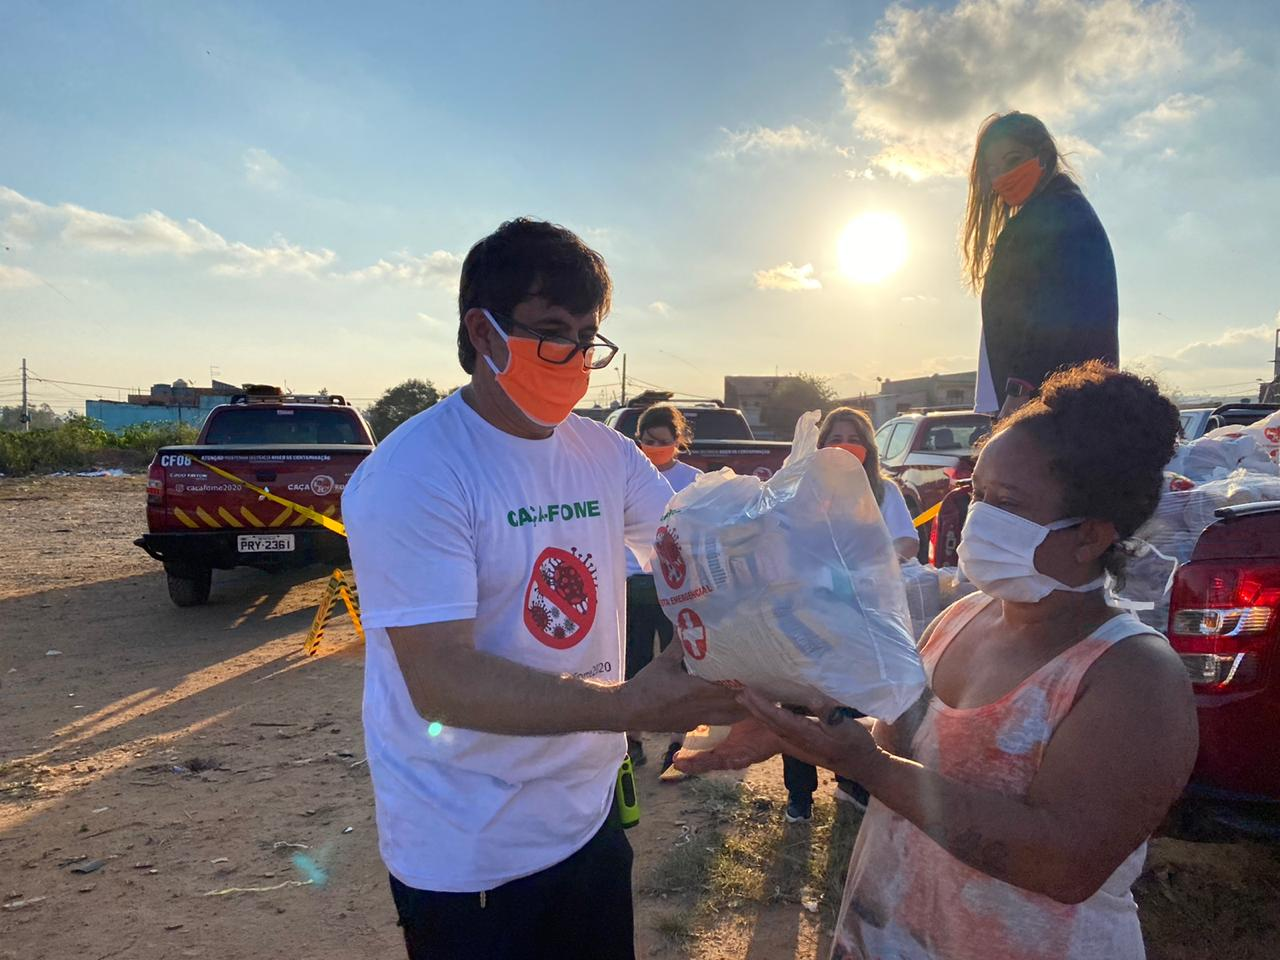
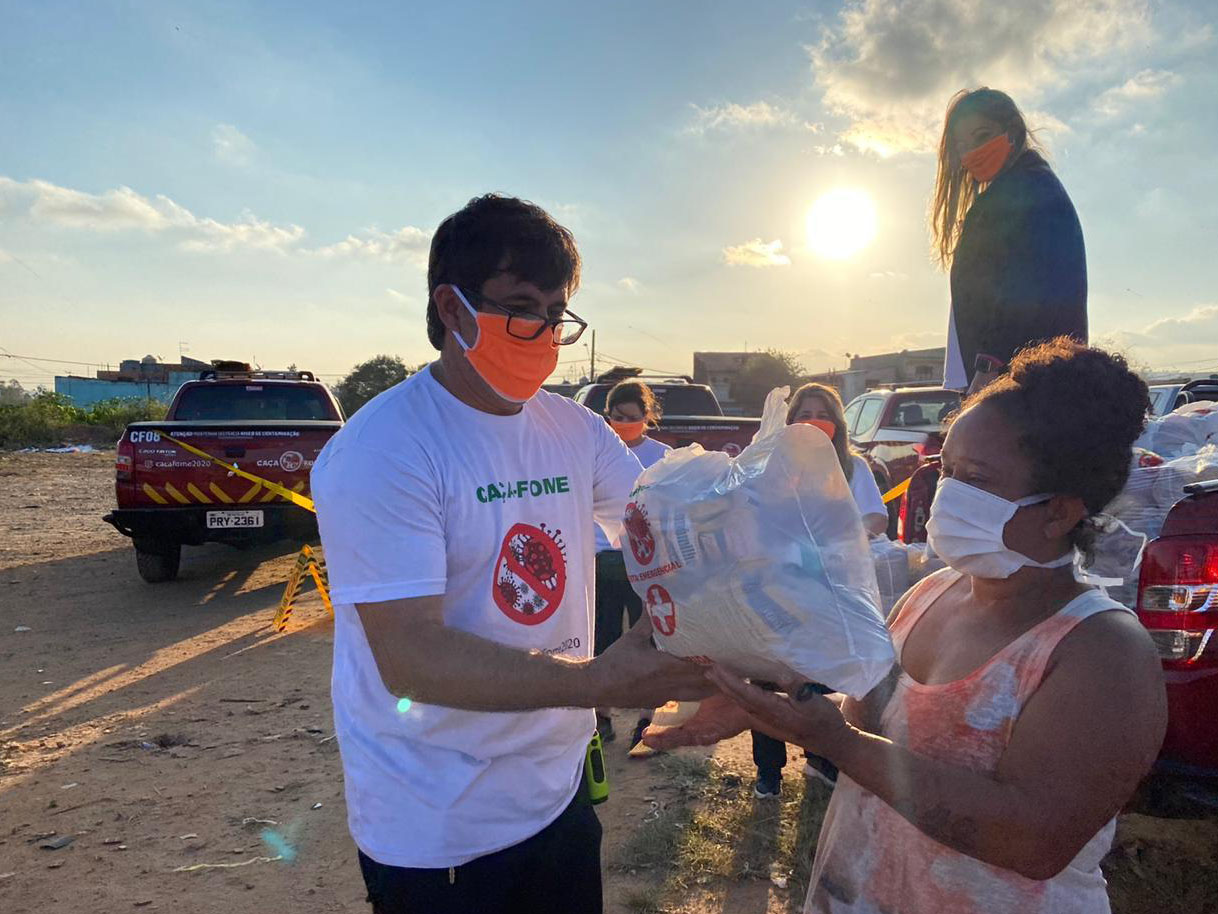
Adicionando imagens carrosel com boa resolução

Changed region(s): [[0.0, 0.0, 1.0, 1.0], [0.0936, 0.9803, 0.1248, 1.0]]

diff --git a/index.html b/index.html
@@ -111,7 +111,7 @@
                             </div>
                         </div>
                         <div class="carousel-item">
-                            <img src="./img/heinz-banner.jpg" class="d-block w-100" alt="Cultivo Eficiente">
+                            <img src="./img/heinz_logo1.png" class="d-block w-100" alt="Cultivo Eficiente">
                             <div class="carousel-caption d-none d-md-block">
                                 <h5>HEINZ</h5>
                                 <p>Empresa de alimentos conhecida por sua ampla variedade de produtos, como ketchup, molhos e condimentos.</p>

diff --git a/css/section-carrossel.css b/css/section-carrossel.css
@@ -1,5 +1,5 @@
 .carousel img {
-    height: 58vh;
+    height: 63vh;
     border-radius: 15px;
 }
 .container-carrousel{
